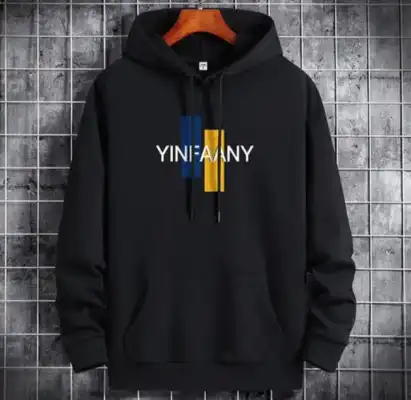
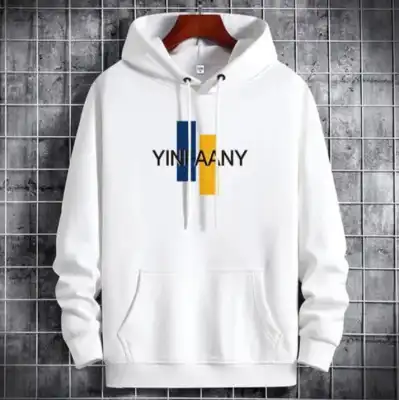
hudjdh5

diff --git a/index.html b/index.html
@@ -75,7 +75,7 @@
 <!--------------PRODUCTS------------->
         <div class="products" data-product-details="SLEEVE-HOODIE-BLACK">
             <img loading="lazy"
-                src="./products/hoodies/1.webp">
+                src="./products/hoodies/3.webp">
             <div class="product-details">
                 <h1 hidden>SLEEVE-HOODIE-BLACK</h1>
                 <form class="item-form" onsubmit="addToCart(event, this)">
@@ -87,7 +87,7 @@
 <!--------------PRODUCTS------------->
         <div class="products" data-product-details="SLEEVE-HOODIE-WHITE">
             <img loading="lazy"
-                src="./products/hoodies/3.webp">
+                src="./products/hoodies/1.webp">
             <div class="product-details">
                 <h1 hidden>SLEEVE-HOODIE-WHITE</h1>
                 <form class="item-form" onsubmit="addToCart(event, this)">

diff --git a/carttomessage.js b/carttomessage.js
@@ -19,7 +19,7 @@ roomInput.value += counter + "." + name + ",\n";
       }
       else {
       const total = parseInt(calculateItemTotal(quantity, item.price)) + "TK";
-      roomInput.value += counter + "." + name + "~QUANTITY: " + quantity + "~PRICE: " + total + ",\n";
+      roomInput.value += counter + "." + name + "∼QUANTITY: " + quantity + "∼PRICE: " + total + ",\n";
       counter++;
       }
   });
@@ -35,7 +35,7 @@ else {
     roomInput.value = name + ".";
   }
   else {
-    roomInput.value = name + "~QUANTITY: " + quantity + "~TOTAL: " + total + ".";
+    roomInput.value = name + "∼QUANTITY: " + quantity + "∼TOTAL: " + total + ".";
   }
   }
 ////////////////////////////////////////////

diff --git a/cartstyle.css b/cartstyle.css
@@ -2,13 +2,14 @@
 display: grid;
       background-color: transparent;
       grid-template-columns: 1fr; /* Two equal columns */
-      padding-bottom: 7rem;
+      padding-bottom: 7.5rem;
     }
 .cart {
   margin: 0rem;
   outline: none;
   display: inline;
   text-align: center;
+  margin-top: -5rem;
 }
 .cart p {
   background-color: darkblue;
@@ -109,7 +110,7 @@ ul {
       outline: none;
       margin: 0;
       border: 0;
-      padding-bottom: 1rem;
+      padding-bottom: 2.5rem;
       margin-bottom: 0rem;
       height: 3.2rem;
       font-style: italic

diff --git a/style.css b/style.css
@@ -159,7 +159,7 @@ main{
     padding-top: 0rem;
     background-color: #311740;
     overflow: scroll;
-    margin-bottom: 8rem;
+    padding-bottom: 8rem;
 }
 
 #section-1 input {
